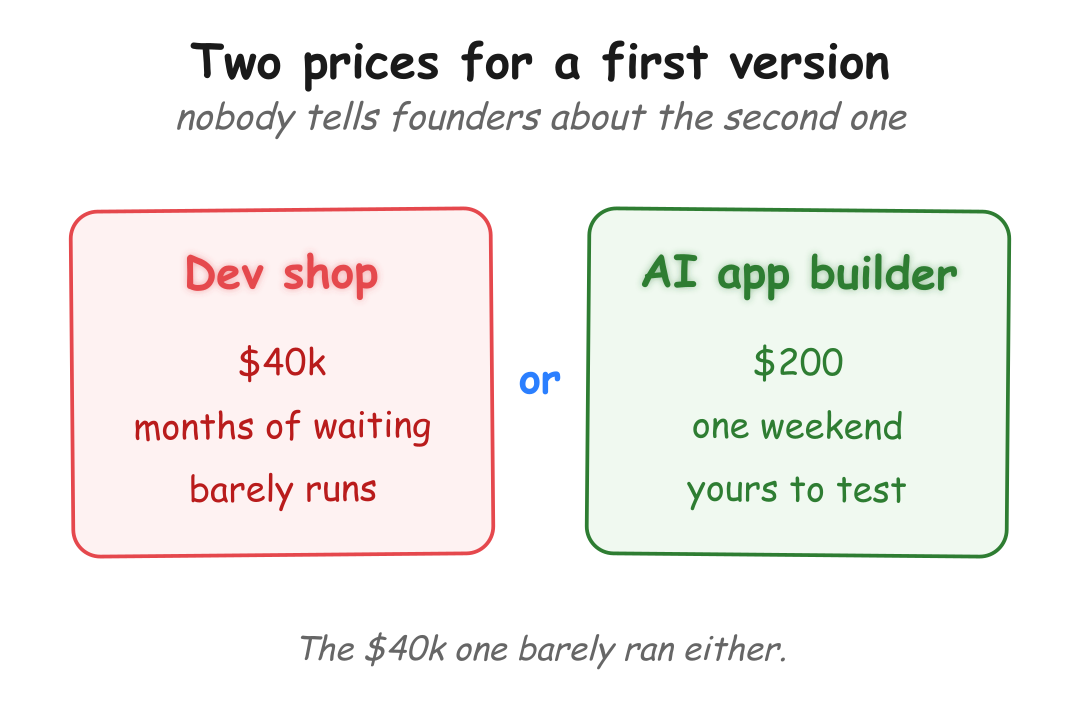
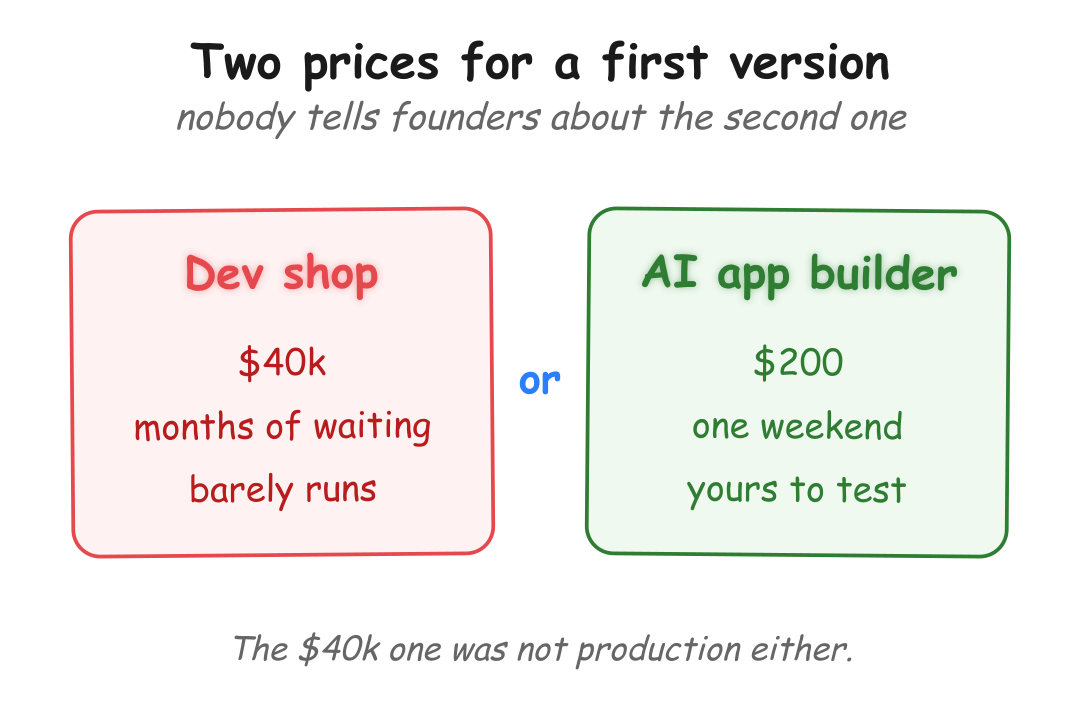
LI: Paul's paragraph 3, and replace the orphaned close
1. PARAGRAPH 3 verbatim from Paul: "You get the same non-production app, but it's
good enough to test the idea, and you save about $39k."

His "non-production" fixes a contradiction I had shipped. Mine said "the same
non-working app. It is good enough to test the idea" - if it does not work, it
cannot be good enough to test. The AI build does work; it is just not production
grade. One word, and the sentence stops arguing with itself.

Exhibit basis line aligned: "The $40k one barely ran either" implied the AI version
barely runs too, which contradicts "good enough to test". Now "The $40k one was not
production either." Re-exported and render-verified.

2. CLOSE REPLACED. Paul: "I'm not following those last lines, how are they related
to the post idea?" Correct - they were ORPHANED. "What did the vendor tell you
before you signed? That part never gets written down." fitted this post's ORIGINAL
thesis of vendor accountability (the 2026-08-17 4-critic version). The post is now a
price revelation, so the old question reached the topic only through a two-step - the
pitch is where the not-telling happens - that no reader is going to make.

Now: "What were you quoted for your first version?" Genuine, on-thesis, trivially
answerable, and it surfaces the datum actually worth having: whether founders are
still being quoted five figures.

De-shaming line kept. The 4-critic swarm added it because the icp_test cannot fire
[…]

Changed region(s): [[0.2139, 0.8861, 0.7944, 0.9167]]

diff --git a/linkedin-posts/personal/bip-vendors-still-burning-founders.md b/linkedin-posts/personal/bip-vendors-still-burning-founders.md
@@ -55,6 +55,27 @@ notes: |
   founder as the latest instance of a pattern, slot 10 narrates his unpaid-PM
   trap. Different arguments, same evidence, three weeks apart.
 
+  CLOSE REPLACED 2026-08-19 (Paul: "I'm not following those last lines, how are
+  they related to the post idea?"). He was right and the answer is that they were
+  ORPHANED. "What did the vendor tell you before you signed? That part never gets
+  written down." fitted the post's ORIGINAL thesis - vendor accountability, the
+  2026-08-17 4-critic version. This post is now a price revelation, so the question
+  reached the topic only via a two-step (the pitch is where the not-telling happens)
+  that no reader will make. Replaced with "What were you quoted for your first
+  version?" - genuine, directly on-thesis, trivially answerable, and it surfaces
+  exactly the datum worth knowing: whether founders are still being quoted five
+  figures.
+
+  De-shaming line KEPT. The 4-critic swarm added it because the icp_test could not
+  fire without an ask, and it does more work now than before: asking someone what
+  they were quoted, straight after revealing the $200 figure, invites them to
+  confess being overcharged. The line makes answering safe.
+
+  LESSON: when a post's thesis is rewritten, re-check the CLOSE against the new
+  thesis, not just the body. A close that fitted the old argument survives every
+  voice gate - it is well-written, unbanned, on-brand - and is simply about a
+  different post.
+
   PARAGRAPH 3 IS THE THESIS (Paul, 2026-08-19) - do not soften it again. The
   assistant had written "Putting it in front of paying customers needs someone who
   can read the code", added to resolve a contradiction with the Aug 26 supervisor
@@ -79,10 +100,10 @@ Non-technical founders who paid for an MVP that barely runs keep turning up in m
 
 That same first version is now a weekend with Lovable or v0. You describe what you want and it builds it. Even on the priciest models, $200 covers it.
 
-You get the same non-working app. It is good enough to test the idea, and you save about $39k.
+You get the same non-production app, but it's good enough to test the idea, and you save about $39k.
 
 Nobody tells founders this. The vendor has no reason to, and the tools got cheap faster than the advice caught up.
 
 If you already paid a dev shop, most people around you would have signed the same contract.
 
-What did the vendor tell you before you signed? That part never gets written down.
+What were you quoted for your first version?
